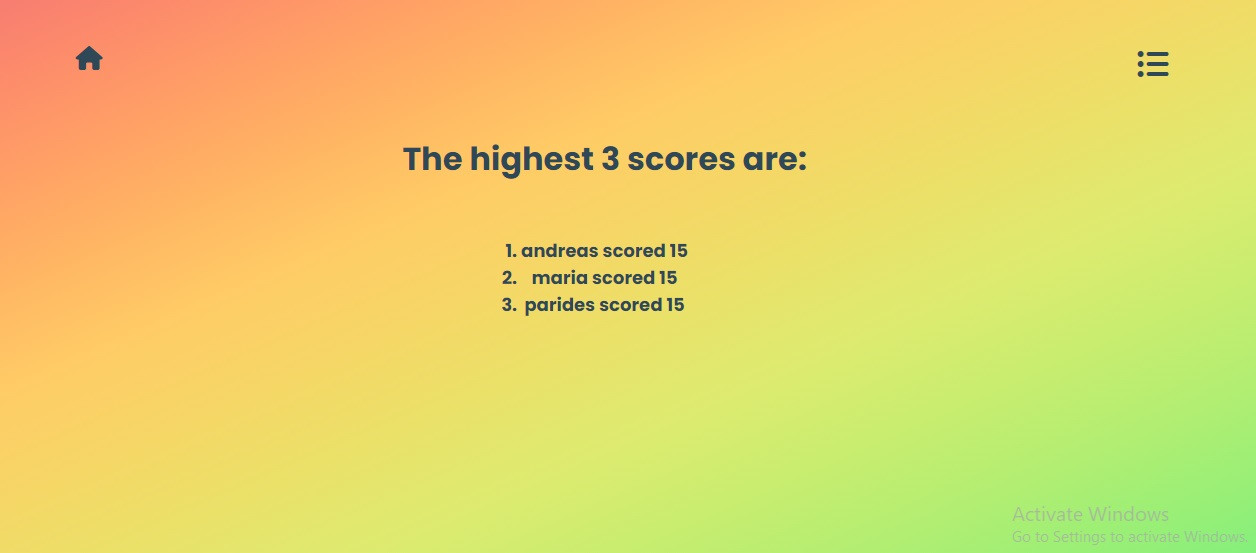
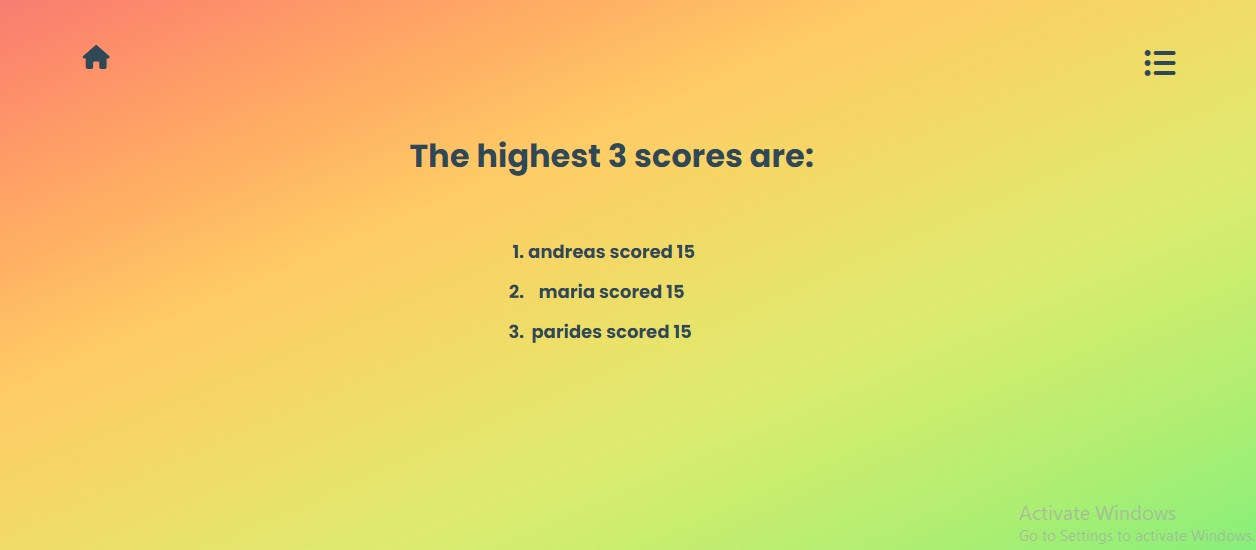
add content for the features of the webpage in the README

diff --git a/assets/jacascript/script.js b/assets/jacascript/script.js
@@ -157,7 +157,7 @@ function getNewQuestion() {
 
     if (availableQuestions.length === 0 || questionCounter >= maxQuestions) {
         highscoresArea.classList.remove('hide');
-        showYourScore.innerText = `${user.value} your scored ${score} points`;
+        showYourScore.innerText = `${user.value} you scored ${score} points`;
         playAgainButton.classList.remove('hide');
         gameArea.classList.add('hide');
         menuIcon.classList.remove('hide');

diff --git a/assets/css/style.css b/assets/css/style.css
@@ -260,7 +260,7 @@ form {
 
 /* Styling the Highscore Area */
 .highscore-divs {
-    margin: -100px 0px -100px -35px;
+    margin: -70px 0px -100px -35px;
     font-size: xx-large;
     font-weight: bolder;
     text-align: center;
@@ -269,6 +269,7 @@ form {
 #score-list {
     font-size: large;
     font-weight: bold;
+    line-height: 40px;
 }
 
 #score-list-places {

diff --git a/README.md b/README.md
@@ -8,28 +8,31 @@ The **What's the ?CAPITAL?** game it's an online quiz that is looking to give it
 
 <hr>
 <details>
-<summary><b>Table of Content</b>(click to open)</summary> 
+<summary><b>Table of Content</b>(click to open)</summary>
 
   -[Feathures](#features)<br>
+      -[Existing Feature](#existing-features)<br>
   -[Features left to implement](#features-left-to-implement)<br>
   -[Testing](#testing)<br>
+  
   
 </details>
 
 ## Features
 
-The features available in the game are a home button, which always will bring you to the main landing page, a menu icon, which provides selections to the Instructions of the game, to view the 3 highest scores and to access the contact form, buttons that are designed to give a nice flow and control to the user to start the game, go to the next question or play again. Each features is designed to be easily identified and understoond and give to the user an easy way to navigate around the game. 
+- The main feature of the whole webpage, which also helps a lot to make it fully responsive, is keeping the same structure of content throughout all the pages. All content are centerd and contained in a div which takes the full viewport height and width of the device.
+- The features available to use in the game are a home button, which always will bring you to the main landing page, a menu icon, which provides selections to the Instructions of the game, to view the 3 highest scores and to access the contact form, buttons that are designed to give a nice flow and control to the user to start the game, go to the next question or play again. Each features is designed to be easily identified and understoond and give to the user an easy way to navigate around the game.
 
 ### Existing Features
 
-- __The Landing page__
+- **The Landing page**
 
   - The main Landing page which has in the middle a big tittle with the name of the game which attempts to make clear what the quiz is about.
   - Below the title is a big "Lets's Play!" button which attempts to attract the attention of the user to start playing the game.
 
 <img src="images/main-page-optimized.jpg">
 
-- __The Home Button__
+- **The Home Button**
 
   - The Home Button is always visible in the left top corner and is the only way to come back to the main landing page and start another game.
   - Also, is a way to stop your current game and start another one, since its available throughout the duration of the game in the left top conrer.
@@ -38,27 +41,49 @@ The features available in the game are a home button, which always will bring yo
 
 - **The Menu Button**
 
-  - The Menu Button, which is an unordered list icon, once pressed it will give three selections for the user. To view the Instructions of the game, the three Highest Scores and to access the Contact form.
-  - Once the selections are displayed the unordered list icon is replaced with a cross icon to indicated that when the user clicks on it the selections will be removed.
-  - The three selections have a hoover effect as well to clearly indicate to the user which one is about to be selected. 
+  <img src="images/menu-button-optimized.jpg">
 
-<img src="images/menu-button-optimized.jpg">
+   - The Menu Button, which is an unordered list icon, once pressed it will give three selections for the user. To view the Instructions of the game, the three Highest Scores and to access the Contact form.
+   - Once the selections are displayed the unordered list icon is replaced with a cross icon to indicated that when the user clicks on it the selections will be removed.
+   - The three selections have a hoover effect as well to clearly indicate to the user which one is about to be selected.
 
-<img scc="images/menu-selections-optimized.jpg">
+<img src="images/menu-selections-optimized.jpg">
 
+- **The Instructions page**
 
-- __The Question section__
+  - This page contains all the instructions, not only how to play the quiz, but generally how to use and what to find in the whole webpage.
+  - All the instructions are very simply written and to make it easier to distinguish them they are presented with a little flag icon bullet point.
+  - Also, all the buttons of the game are shown as they are illustriated in the game instead of been described to be easier for the user to identify them.
 
-  - The question section is where the user will be able to see the elementary arithmetic question to answer as part of the game. The user will be able answer the questions in the answer box provide
-  - The user will be able to submit their answer and a pop-up will make it known to the user if they answered correctly.
+<img src="images/instructions-page-optimized.jpg">
 
-![Question](media/love_maths_question.png)
+- **The Highscore page**
 
-- __The Score Area__
+  - This section will allow the users to see how many points they scored and see if they made it to the top 3.
+  - The page can be selected before the game starts through the menu selections, which in that case only the top 3 scores will be shown.
+  - It will also be shown once the game has finished and in this case the score of the current user will be shown below the top 3 scores. 
+  - Below the user's score a Play again button will appear to prompt, either the same user or a different one, to play again. Once this button is clicked it will take you to the username page.
+  - Also, the menu icon remains available in this page offering 
 
-  - This section will allow the user to see exactly how many correct and incorrect answers they have provided.
+<img src="images/highscore-page-optimized.jpg">
 
-![score](media/love_maths_answer.png)
+<img src="images/highscore-page-after-optimized.jpg">
+
+- **The Contact Page**
+
+<img src="images/contact-page-optimized.jpg">  
+
+- **The username page**
+
+  - Once the Let's Play button, from the main landing page, is clicked the users are directed to this page and are asked to provide a username, so their scored can be linked with them and stored in the local storage of the browser.
+  - The Start button will not allow the users to start the game without providing a username. If the users try to click the start button without a user name an alert will be generated asking the users to provide a username in order to continue.
+  - In the username page only the Home icon is available to select since the game has partially started and the users shouldn't be distracted from other features, so they can have a clear path to follow.
+
+<img src="images/username-page-optimized.jpg">
+
+- **The Game area**
+
+  - 
 
 For some/all of your features, you may choose to reference the specific project files that implement them.
 
